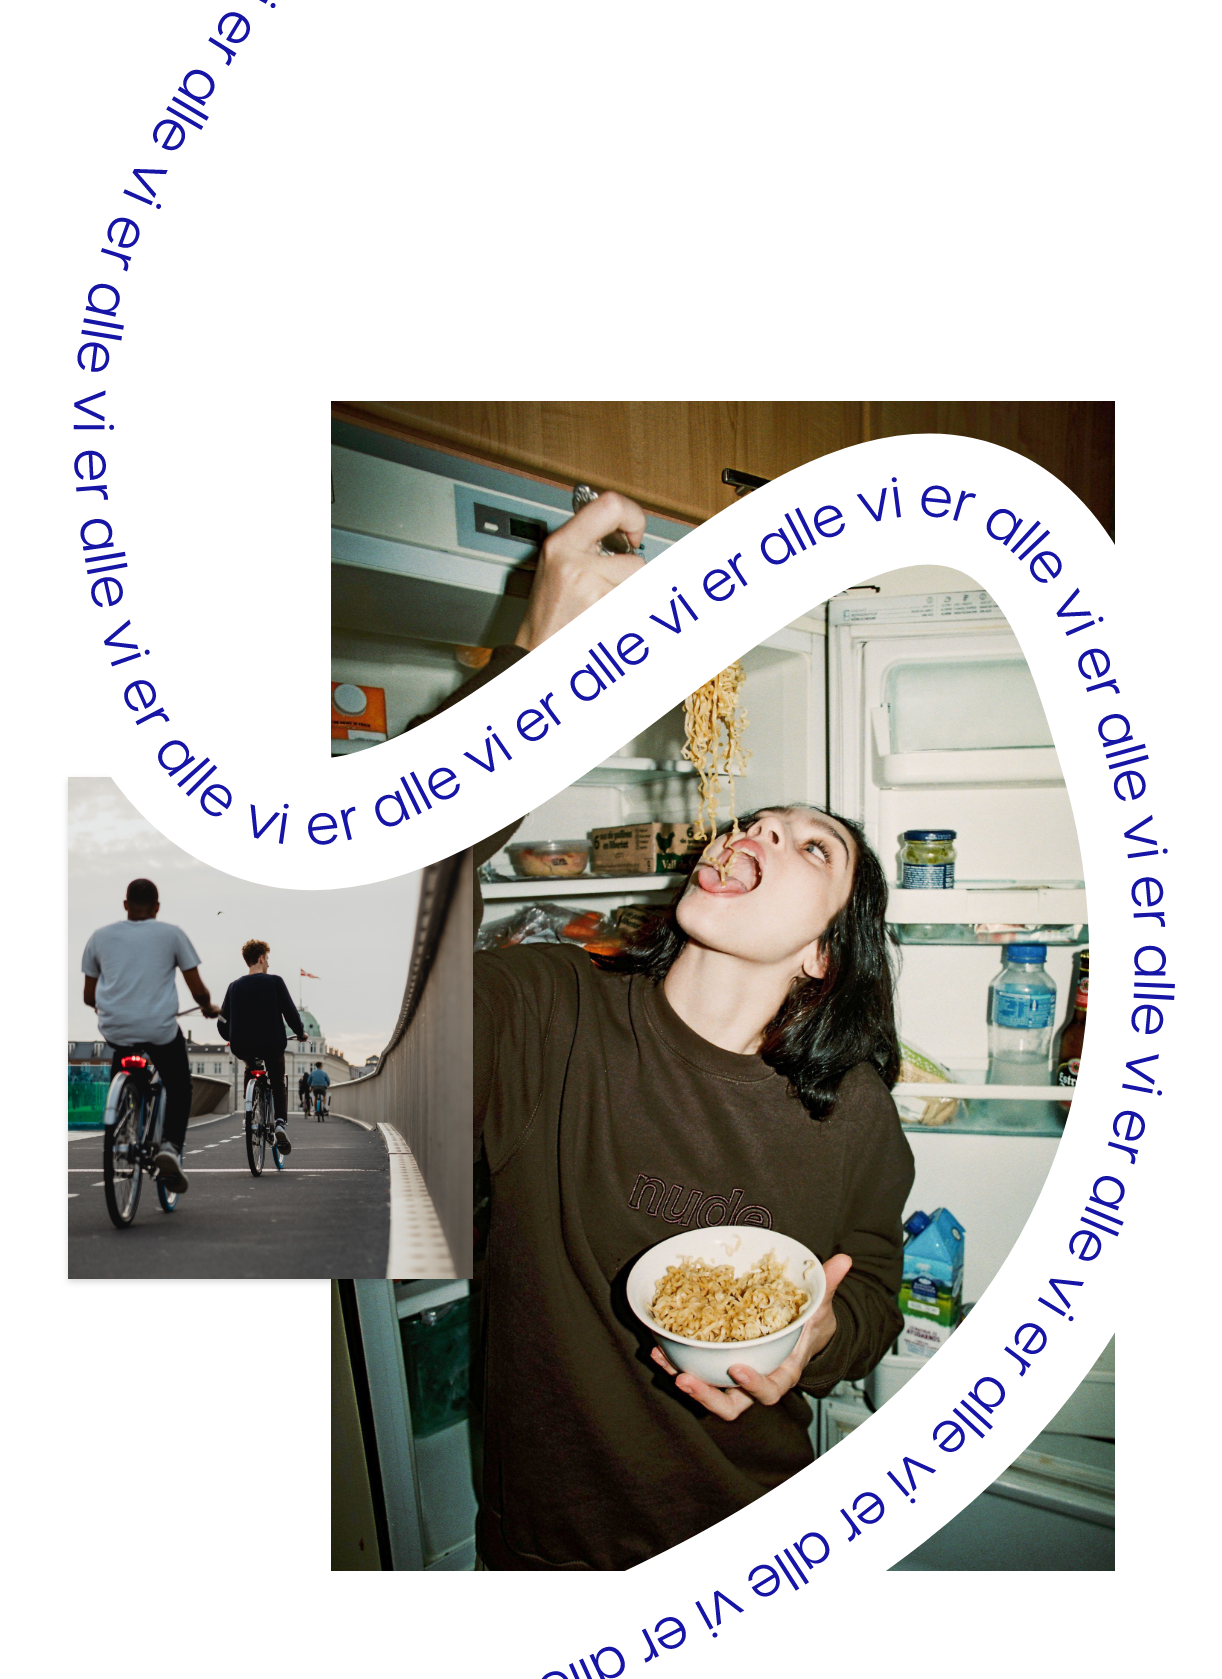
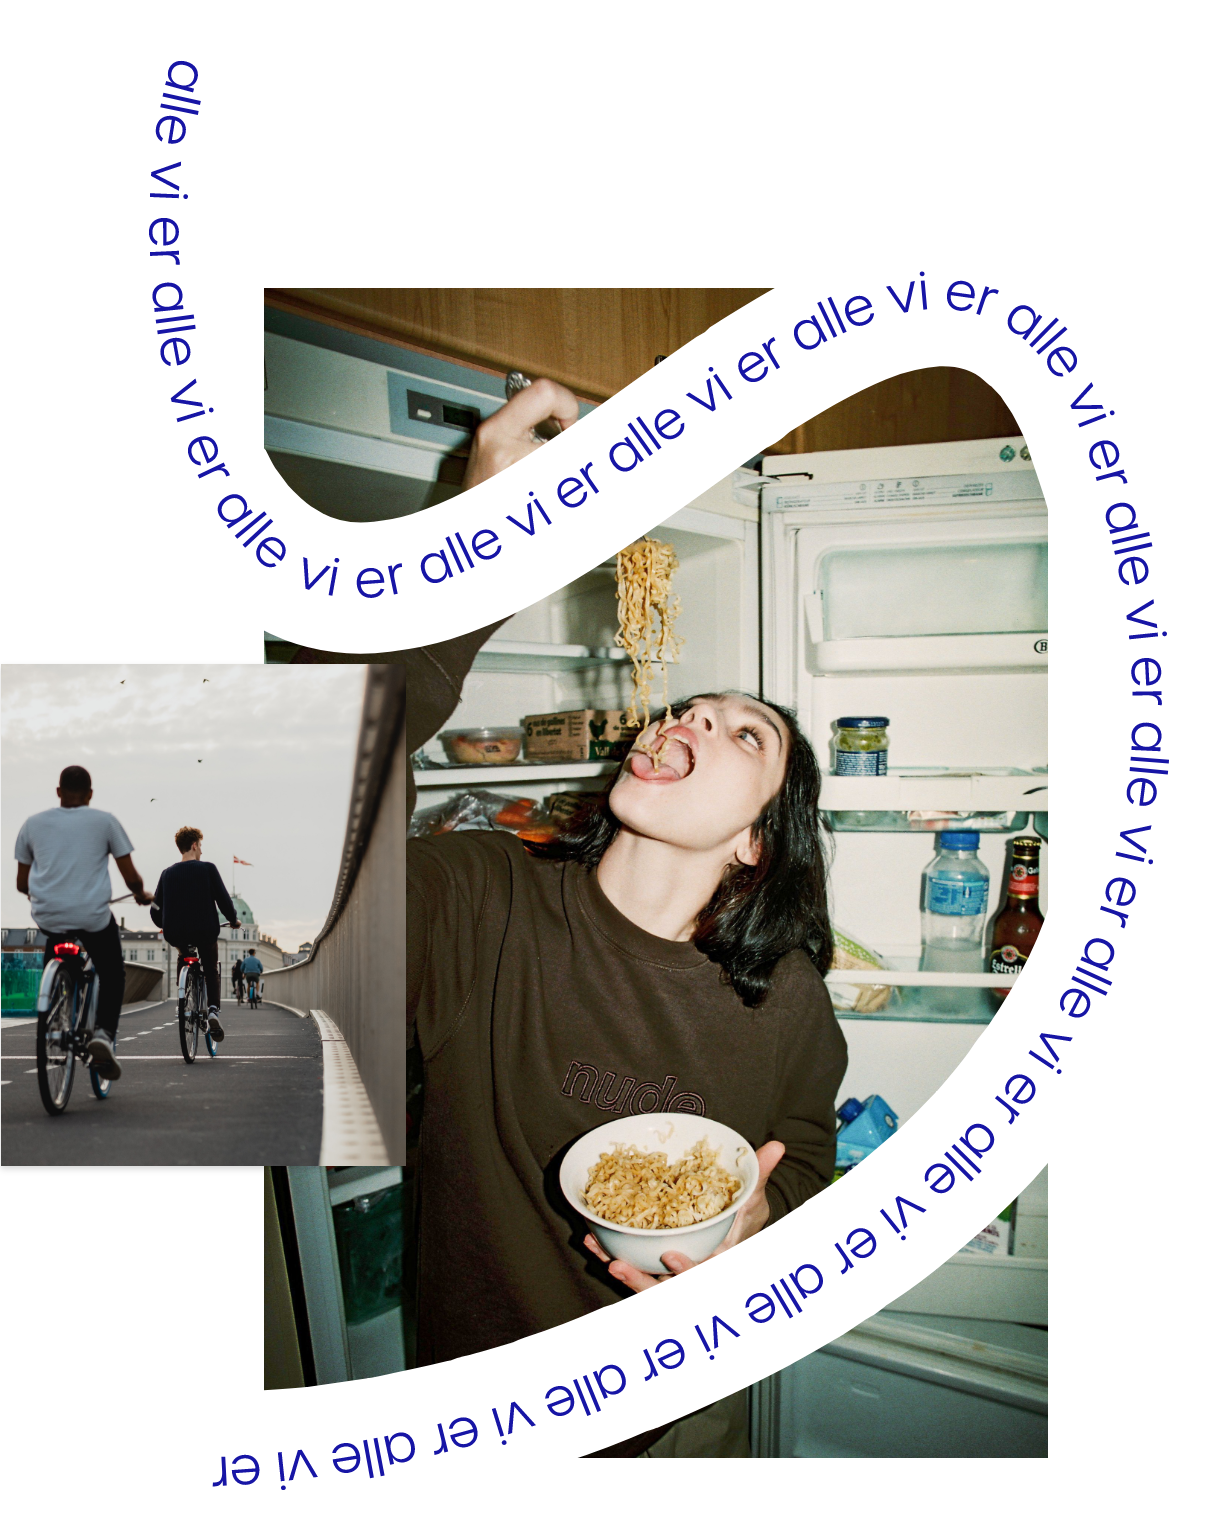
kinda did it

diff --git a/style.css b/style.css
@@ -21,12 +21,11 @@ html {
   padding: 0;
 }
 
-*{
+* {
   padding: 0;
   margin: 0;
   box-sizing: border-box;
 }
-
 
 img {
   max-width: 100%;
@@ -69,6 +68,7 @@ nav a:active {
 /* Section 2 */
 #section1 {
   margin: 5vw;
+  height: 41vw;
 }
 
 .sec1_1 {
@@ -93,6 +93,7 @@ nav a:active {
 
 /* Section 2 */
 #section2 {
+  height: 42.5vw;
 }
 
 .buy_now {
@@ -123,17 +124,10 @@ nav a:active {
 .sec2 button {
   margin-top: 1vw;
   height: 2.5vw;
-  margin-bottom: 8vw;
-}
-
-.sec2 button {
-  margin-top: 1vw;
-  height: 2.5vw;
-  margin-bottom: 8vw;
 }
 
 #section2 img {
-  width: 100%;
+  margin-top: 3vw;
 }
 
 /*section 4*/
@@ -368,7 +362,7 @@ a {
 .animation_section_container1 {
   position: relative;
   z-index: 1;
-  border: aqua solid 2px;
+  /* border: aqua solid 2px; */
 }
 
 .animation_section_content1 {
@@ -387,14 +381,14 @@ a {
   position: relative;
   padding-top: 20px;
   padding-bottom: 30px;
-  border: solid 2px blue;
+  /* border: solid 2px blue; */
   background-color: var(--bg-color);
 }
 
 .animation_section_container2 {
   position: relative;
   z-index: 1;
-  border: aqua solid 2px;
+  /* border: aqua solid 2px; */
 }
 
 .animation_section_content2 {
@@ -411,14 +405,14 @@ a {
   position: relative;
   padding-top: 20px;
   padding-bottom: 30px;
-  border: solid 2px blue;
+  /* border: solid 2px blue; */
   background-color: var(--bg-color);
 }
 
 .animation_section_container4 {
   position: relative;
   z-index: 1;
-  border: aqua solid 2px;
+  /* border: aqua solid 2px; */
 }
 
 .animation_section_content4 {

diff --git a/index.html b/index.html
@@ -33,7 +33,7 @@
     </header>
     <nav class="navbar fixed-top">
       <div class="container-fluid">
-        <a class="navbar-brand" href="#">hh</a>
+        <a class="navbar-brand" href="#">VI ER ALLE</a>
         <a class="navbar-brand" href="#">OM OS</a>
         <img src="images/logo_navbar.png" alt="logo" />
         <a class="navbar-brand" href="#">FIND OS</a>
